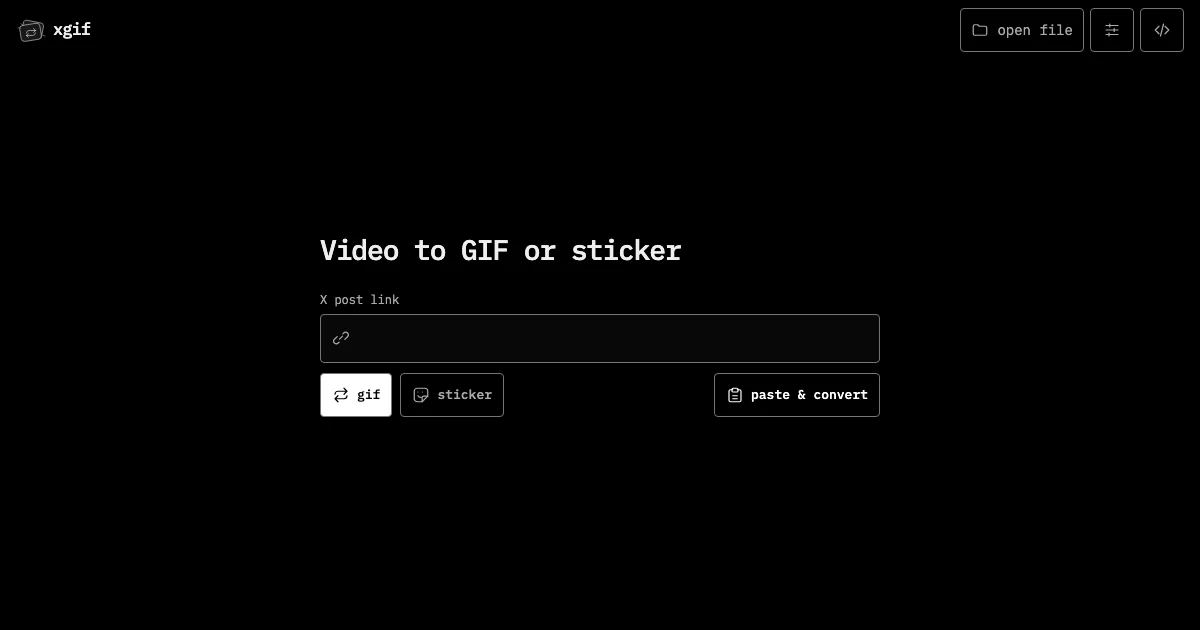
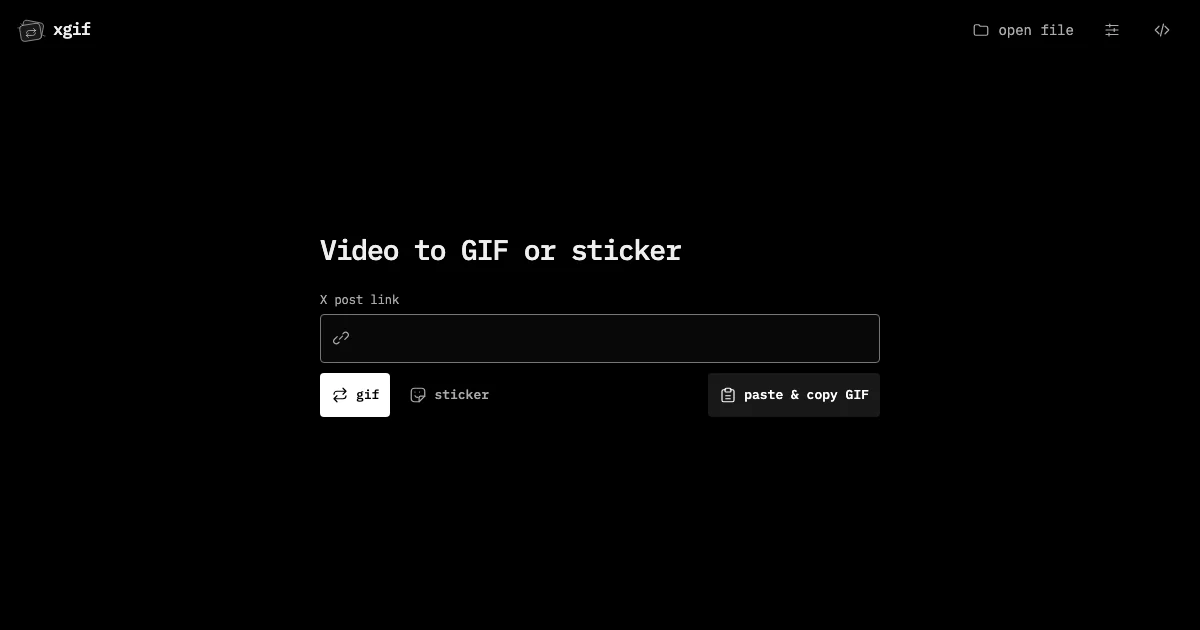
Copy GIFs on paste and simplify control styling

Changed region(s): [[0.5858, 0.573, 0.74, 0.6635], [0.2775, 0.6032, 0.4317, 0.6635], [0.8017, 0.0302, 0.8942, 0.0603]]

diff --git a/src/main.js b/src/main.js
@@ -21,6 +21,7 @@ const result = byId('result');
 const preview = byId('preview');
 const share = byId('share');
 const copy = byId('copy');
+const resultStatus = byId('result-status');
 const status = byId('status');
 const progress = byId('progress');
 const working = byId('working');
@@ -62,6 +63,7 @@ function resetResult() {
   objectUrl = undefined;
   output = undefined;
   result.hidden = true;
+  resultStatus.textContent = '';
   preview.removeAttribute('src');
   save.removeAttribute('href');
   report('');
@@ -102,21 +104,45 @@ function selectFile(candidate) {
   convert.focus();
 }
 
+function pastedPost(text) {
+  const link = text.match(/https:\/\/[^\s<>]+/ig)?.find(value => {
+    try {
+      const url = new URL(value);
+      return /^(?:(?:www\.)?x\.com|(?:www\.|mobile\.)?twitter\.com)$/.test(url.host) &&
+        /^\/(?:[\w]{1,15}|i\/web)\/status\/\d+(?:\/video\/\d+)?\/?$/.test(url.pathname);
+    } catch {
+      return false;
+    }
+  });
+  return link;
+}
+
+function setPastedPost(value) {
+  const changed = Boolean(localFile || post.value.trim() !== value);
+  localFile = undefined;
+  post.value = value;
+  if (changed) resetSource();
+  updateInput();
+}
+
 async function pasteLink() {
   if (job || readingClipboard) return;
   readingClipboard = true;
   paste.disabled = true;
   chooseVideo.disabled = true;
+  let copyRequest;
   try {
-    const contents = await navigator.clipboard.readText();
-    const value = contents.match(/https?:\/\/[^\s<>]+/i)?.[0];
-    if (!value) throw new Error('Clipboard has no link');
-    const changed = Boolean(localFile || post.value.trim() !== value);
-    localFile = undefined;
-    post.value = value;
-    if (changed) resetSource();
-    updateInput();
+    const read = navigator.clipboard.readText();
+    copyRequest = prepareAutoCopy();
+    const value = pastedPost(await read);
+    if (!value) throw new Error('Clipboard has no X post link');
+    if (copyRequest && formatInput.value !== 'gif') {
+      copyRequest.finish();
+      copyRequest = undefined;
+    }
+    setPastedPost(value);
   } catch {
+    copyRequest?.finish();
     report('Paste an X link into the field to continue.');
     (localFile ? convert : post).focus();
     return;
@@ -125,7 +151,7 @@ async function pasteLink() {
     paste.disabled = false;
     chooseVideo.disabled = false;
   }
-  form.requestSubmit();
+  void startConversion(copyRequest);
 }
 
 async function acquireVideo(input, signal) {
@@ -165,8 +191,11 @@ function showResult(value) {
     ? `${(value.size / 1_000_000).toFixed(1)} MB`
     : `${Math.max(1, Math.round(value.size / 1000))} KB`;
   share.hidden = !navigator.share || !navigator.canShare?.({ files: [value] });
-  copy.hidden = !navigator.clipboard?.write || !globalThis.ClipboardItem ||
-    (value.type !== 'image/gif' && !ClipboardItem.supports?.(value.type));
+  share.lastElementChild.textContent = sticker ? 'share sticker' : 'share GIF';
+  save.classList.toggle('primary', share.hidden);
+  const type = clipboardFormat(value.type);
+  copy.hidden = !type;
+  copy.textContent = type === 'text/html' ? 'copy for rich paste' : 'copy';
   const help = byId('result-help');
   help.textContent = sticker
     ? 'For a native WhatsApp sticker, import the animated WebP in a compatible sticker app.'
@@ -210,6 +239,14 @@ post.addEventListener('input', () => {
   post.removeAttribute('aria-invalid');
   updateInput();
 });
+post.addEventListener('paste', event => {
+  if (job || readingClipboard || !canAutoCopy()) return;
+  const value = pastedPost(event.clipboardData?.getData('text/plain') ?? '');
+  if (!value) return;
+  event.preventDefault();
+  setPastedPost(value);
+  void startConversion(prepareAutoCopy());
+});
 
 const hasFile = event => Array.from(event.dataTransfer.types).includes('Files');
 workspace.addEventListener('dragover', event => {
@@ -238,25 +275,32 @@ form.addEventListener('invalid', event => {
   }
 }, true);
 form.addEventListener('change', event => {
-  if (event.target.name === 'format') updateTrimLimit();
+  if (event.target.name === 'format') updateFormatControls();
   if (event.target === clip || event.target.name === 'format' || trim.contains(event.target)) resetResult();
 });
 
-function updateTrimLimit() {
+function updateFormatControls() {
   const sticker = formatInput.value === 'webp';
   lengthInput.max = sticker ? String(stickerMaxSeconds) : '';
   byId('trim-help').textContent = sticker
     ? `Leave length blank to use up to ${stickerMaxSeconds} seconds from the start time.`
     : 'Leave length blank to use the rest of the source.';
+  paste.lastElementChild.textContent = canAutoCopy() ? 'paste & copy GIF' : 'paste & convert';
 }
-updateTrimLimit();
+updateFormatControls();
 
 byId('cancel').addEventListener('click', () => job?.abort());
-form.addEventListener('submit', async event => {
+form.addEventListener('submit', event => {
   event.preventDefault();
-  if (job || readingClipboard) return;
+  void startConversion();
+});
+
+async function startConversion(copyRequest) {
   const input = post.value.trim();
-  if ((!localFile && !input) || !form.reportValidity()) return;
+  if (job || readingClipboard || (!localFile && !input) || !form.reportValidity()) {
+    copyRequest?.finish();
+    return;
+  }
   resetResult();
 
   const current = new AbortController();
@@ -276,6 +320,10 @@ form.addEventListener('submit', async event => {
     current.signal.throwIfAborted();
     report('');
     showResult(animated);
+    if (copyRequest) {
+      copyRequest.finish(animated);
+      void reportCopyResult(animated, copyRequest.type, copyRequest.done);
+    }
   } catch (error) {
     if (current.signal.aborted) {
       report('Conversion canceled.');
@@ -286,6 +334,7 @@ form.addEventListener('submit', async event => {
       report(detail, undefined, true);
     }
   } finally {
+    copyRequest?.finish();
     const canceled = current.signal.aborted;
     working.hidden = true;
     controls.disabled = false;
@@ -295,16 +344,38 @@ form.addEventListener('submit', async event => {
     job = undefined;
     if (canceled) convert.focus();
   }
-});
+}
 
 share.addEventListener('click', async () => {
-  if (!output) return;
+  const value = output;
+  if (!value) return;
+  resultStatus.textContent = '';
   try {
-    await navigator.share({ files: [output] });
+    await navigator.share({ files: [value] });
   } catch (error) {
-    if (error?.name !== 'AbortError') report('Sharing failed. You can save the animated file.', undefined, true);
+    if (output === value && error?.name !== 'AbortError') resultStatus.textContent = 'Sharing failed. Use Save to keep the animated file.';
   }
 });
+
+function clipboardFormat(mime) {
+  if (!navigator.clipboard?.write || !globalThis.ClipboardItem) return;
+  if (ClipboardItem.supports?.(mime)) return mime;
+  if (mime === 'image/gif' && ClipboardItem.supports?.('text/html') !== false) return 'text/html';
+}
+
+function canAutoCopy() {
+  return formatInput.value === 'gif' && Boolean(clipboardFormat('image/gif'));
+}
+
+function prepareAutoCopy() {
+  if (!canAutoCopy()) return;
+  const type = clipboardFormat('image/gif');
+  let finish;
+  const file = new Promise(resolve => { finish = resolve; });
+  // Start the write while the paste gesture is active, before conversion finishes.
+  return { type, finish, done: writeClipboard(type, file) };
+}
+
 function gifClipboardMarkup(gif) {
   return new Promise((resolve, reject) => {
     const reader = new FileReader();
@@ -316,15 +387,34 @@ function gifClipboardMarkup(gif) {
   });
 }
 
-copy.addEventListener('click', async () => {
+async function writeClipboard(type, file) {
+  const payload = file.then(value => {
+    if (!value) throw new Error('No converted file');
+    return type === 'text/html' ? gifClipboardMarkup(value) : value;
+  });
+  // The browser can reject the write before it reads the pending payload.
+  void payload.catch(() => {});
+  try {
+    await navigator.clipboard.write([new ClipboardItem({ [type]: payload })]);
+    return true;
+  } catch {
+    return false;
+  }
+}
+
+async function reportCopyResult(value, type, done) {
+  const copied = await done;
+  if (output !== value) return;
+  const fallback = share.hidden ? 'Use Save to send the file.' : 'Use Share to send the original file.';
+  if (!copied) resultStatus.textContent = `Could not copy the animation. ${fallback}`;
+  else resultStatus.textContent = type === 'text/html' ? `Copied for rich paste. ${fallback}` : 'Animation copied.';
+}
+
+copy.addEventListener('click', () => {
   const value = output;
   if (!value) return;
-  const useMarkup = value.type === 'image/gif' && !ClipboardItem.supports?.(value.type);
-  try {
-    const payload = useMarkup ? { 'text/html': gifClipboardMarkup(value) } : { [value.type]: value };
-    await navigator.clipboard.write([new ClipboardItem(payload)]);
-    if (output === value) report(useMarkup ? 'GIF copied for apps that accept rich paste.' : 'Animation copied.');
-  } catch {
-    if (output === value) report('Copy failed. Use Share or Save to keep the animation.', undefined, true);
-  }
+  const type = clipboardFormat(value.type);
+  if (!type) return;
+  resultStatus.textContent = '';
+  void reportCopyResult(value, type, writeClipboard(type, Promise.resolve(value)));
 });

diff --git a/src/style.css b/src/style.css
@@ -41,6 +41,8 @@ fieldset { border: 0; padding: 0; margin: 0; min-inline-size: 0; }
   gap: 8px;
   min-height: var(--control-size);
   padding: 0 10px;
+  border: 0;
+  border-radius: var(--corner);
   background: transparent;
   color: var(--hint);
   text-decoration: none;
@@ -65,10 +67,10 @@ h1 { margin: 0 0 24px; font-size: clamp(21px, 4.5vw, 28px); line-height: 1.2; fo
 #post, #file-name { flex: 1; min-width: 0; padding: 0; border: 0; outline: 0; background: transparent; font-size: 16px; }
 #post { height: 41px; }
 #file-name { overflow: hidden; text-overflow: ellipsis; white-space: nowrap; }
-.clear-button, .convert-button { display: grid; place-items: center; flex: none; min-height: 41px; background: transparent; }
+.clear-button, .convert-button { display: grid; place-items: center; flex: none; min-height: 41px; border: 0; border-radius: var(--corner); background: transparent; }
 .clear-button { width: 32px; padding: 0; color: var(--hint); }
 .clear-button .icon { width: 16px; height: 16px; }
-.convert-button { padding: 0 11px; color: var(--frame); font-size: 13px; }
+.convert-button { padding: 0 11px; background: var(--raised); color: var(--frame); font-size: 13px; }
 .clear-button:focus-visible, .convert-button:focus-visible { outline-offset: -2px; }
 
 .conversion-actions, .formats, .working, .result-bar, .result-actions, .dialog-header { display: flex; align-items: center; gap: 8px; }
@@ -81,15 +83,18 @@ h1 { margin: 0 0 24px; font-size: clamp(21px, 4.5vw, 28px); line-height: 1.2; fo
   gap: 7px;
   min-height: var(--control-size);
   padding: 0 11px;
-  background: #000;
+  border: 0;
+  border-radius: var(--corner);
+  background: var(--raised);
   font-size: 13px;
   font-weight: 500;
   text-decoration: none;
   white-space: nowrap;
 }
-.button.primary, #paste { color: var(--frame); }
+#paste { color: var(--frame); }
+.button.primary { background: var(--frame); color: #000; }
 .formats label { position: relative; cursor: pointer; }
-.formats label > span { color: var(--hint); }
+.formats label > span { background: transparent; color: var(--hint); }
 .formats input { position: absolute; width: 1px; height: 1px; opacity: 0; }
 .formats input:checked + span { background: var(--frame); color: #000; }
 .formats input:focus-visible + span { outline: 2px solid var(--frame); outline-offset: 2px; }
@@ -97,42 +102,42 @@ fieldset:disabled .formats label { cursor: default; }
 .clip-picker { display: flex; align-items: center; gap: 8px; margin-top: 10px; font-size: 12px; color: var(--hint); }
 select, .trim-options input { min-width: 0; min-height: 40px; padding: 5px 8px; background: var(--surface); font-size: 16px; }
 
-dialog { width: min(calc(100% - 28px), 28rem); max-width: none; padding: 16px; background: var(--surface); color: inherit; overscroll-behavior: contain; }
+dialog { width: min(calc(100% - 28px), 28rem); max-width: none; padding: 16px; border: 0; border-radius: 10px; background: #141414; color: inherit; overscroll-behavior: contain; }
 dialog::backdrop { background: #000b; }
 .dialog-header h2, .result-bar h2 { margin: 0; font-size: 14px; font-weight: 500; }
 .dialog-header h2 { font-size: 17px; }
 .setting-card { margin-top: 12px; }
-.setting-row { display: flex; align-items: center; justify-content: space-between; width: 100%; min-height: var(--control-size); padding: 0 8px; background: transparent; text-align: start; }
+.setting-row { display: flex; align-items: center; justify-content: space-between; width: 100%; min-height: var(--control-size); padding: 0 8px; border: 0; border-radius: var(--corner); background: transparent; text-align: start; }
 .setting-row:focus-visible { outline-offset: -2px; }
 .setting-row[aria-expanded=true] span { transform: rotate(90deg); }
 .trim-options { display: grid; grid-template-columns: repeat(2, minmax(0, 1fr)); gap: 8px; padding-top: 6px; }
 .trim-options label { display: grid; gap: 5px; color: var(--hint); font-size: 12px; }
 #trim-help { grid-column: 1 / -1; margin: 0; }
-#trim-help, #status, #result-help, #result-size { color: var(--hint); font-size: 12px; }
+#trim-help, #status, #result-status, #result-help, #result-size { color: var(--hint); font-size: 12px; }
 .activity:has(#status:not(:empty), #working:not([hidden])) { margin-top: 10px; }
 #status { margin: 0; text-wrap: pretty; }
 #status[data-error] { padding: 8px 10px; background: #141414; color: #fff; }
 .working { margin-top: 8px; }
 progress { flex: 1; min-width: 0; height: 5px; accent-color: var(--frame); }
-#result { margin-top: 16px; padding: 10px; background: var(--surface); }
+#result { margin-top: 20px; }
 .preview { display: grid; place-items: center; min-height: 112px; overflow: hidden; border-radius: var(--corner); background: #090909; }
 .preview img { display: block; max-width: 100%; max-height: min(27rem, 48svh); object-fit: contain; }
 .result-bar { flex-wrap: wrap; padding-top: 10px; }
 .result-actions { flex-wrap: wrap; }
-#result-help { margin: 8px 0 0; text-wrap: pretty; }
+#result-status, #result-help { margin: 8px 0 0; text-wrap: pretty; }
+#result-status:empty { margin: 0; }
 .drop-hint { display: none; position: absolute; z-index: 2; inset: 12px; place-items: center; background: #000e; pointer-events: none; }
 .workspace[data-drop] .drop-hint { display: grid; }
 
-.tool-button, .command, .clear-button, .convert-button, .button,
-.formats label > span, select, .trim-options input, dialog,
-.setting-row, #status[data-error], #result, .drop-hint {
+.command, select, .trim-options input, .drop-hint {
   border: var(--frame-border);
   border-radius: var(--corner);
 }
 
 @media (hover: hover) {
   :is(.tool-button, .button, .clear-button, .setting-row):hover:not(:disabled), .formats input:not(:checked):not(:disabled) + span:hover { background: var(--raised); }
-  :is(.button.primary, #paste, .convert-button):hover:not(:disabled) { background: var(--frame); color: #000; }
+  :is(#paste, .convert-button):hover:not(:disabled) { background: var(--frame); color: #000; }
+  #result .button.primary:hover { background: #ddd; }
 }
 @media (max-width: 375px) {
   .site-header { padding-inline: max(8px, env(safe-area-inset-left)) max(8px, env(safe-area-inset-right)); }

diff --git a/index.html b/index.html
@@ -98,11 +98,12 @@
         <div class="result-bar">
           <div><h2 id="result-name"></h2><span id="result-size"></span></div>
           <div class="result-actions">
+            <button id="share" class="button primary" type="button" hidden><svg class="icon" aria-hidden="true"><use href="#icon-share"/></svg><span>share</span></button>
             <a id="save" class="button" download><svg class="icon" aria-hidden="true"><use href="#icon-download"/></svg>save</a>
             <button id="copy" class="button" type="button" hidden>copy</button>
-            <button id="share" class="button primary" type="button" hidden><svg class="icon" aria-hidden="true"><use href="#icon-share"/></svg>share</button>
           </div>
         </div>
+        <p id="result-status" role="status"></p>
         <p id="result-help" hidden></p>
       </section>
     </div>
